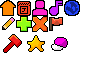
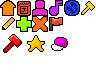
added tools link

Changed region(s): [[0.8438, 0.0, 1.0, 0.2]]

diff --git a/templates/base.html b/templates/base.html
@@ -84,10 +84,11 @@
 		
 		<nav>
 			<div class="links">
+				<div class="link yellow">  <img class="icon" src="/assets/trans.png"> <a href="https://tools.beepboard.xyz/">tools</a>        </div>
 				<div class="link orange">  <img class="icon" src="/assets/trans.png"> <a href="/">home</a>              </div>
 				<div class="link red">     <img class="icon" src="/assets/trans.png"> <a href="/Jams">jams</a>          </div>
-				<div class="link magenta"> <img class="icon" src="/assets/trans.png"> <a href="/Users">users</a>        </div>
-				<div class="link purple">  <img class="icon" src="/assets/trans.png"> <a href="/Songs">songs</a>        </div>
+				<div class="link magenta"> <img class="icon" src="/assets/trans.png"> <a href="/User/list">users</a>    </div>
+				<div class="link purple">  <img class="icon" src="/assets/trans.png"> <a href="/Song/list">songs</a>    </div>
 				<div class="link blue">    <img class="icon" src="/assets/trans.png"> <a href="/Wiki/MainPage">wiki</a> </div>
 			</div>
 		</nav>

diff --git a/public/style.css b/public/style.css
@@ -92,13 +92,15 @@ body {
 		display: inline-block;
 	}
 	
+	nav .link.yellow  {border-color: #fb2;}
 	nav .link.orange  {border-color: #f60;}
 	nav .link.red     {border-color: #f22;}
 	nav .link.magenta {border-color: #f2c;}
 	nav .link.purple  {border-color: #c2f;}
 	nav .link.blue    {border-color: #24f;}
 	
-	nav .link.orange  > .icon {background: url("/assets/icons.png") 0  0;}
+	nav .link.yellow  > .icon {background: url("/assets/icons.png") -80px 0;}
+	nav .link.orange  > .icon {background: url("/assets/icons.png")     0 0;}
 	nav .link.red     > .icon {background: url("/assets/icons.png") -16px 0;}
 	nav .link.magenta > .icon {background: url("/assets/icons.png") -32px 0;}
 	nav .link.purple  > .icon {background: url("/assets/icons.png") -48px 0;}

diff --git a/app.py b/app.py
@@ -10,6 +10,7 @@ from bb_users     import *
 from bb_songs     import *
 from bb_wiki      import *
 from bb_functions import *
+from bb_errors    import *
 
 @app.route('/')
 def bb_index():
@@ -28,96 +29,6 @@ def bb_welcome():
 		trending = bb_get_trending(db)
 	return render_template("welcome.html", trending=trending, myself=myself)
 
-@app.route('/Songs')
-def bb_list_songs():
-	# set default values for parameters
-	sort   = request.args.get('sort')
-	after  = request.args.get('after')
-	author = request.args.get('author')
-	tags   = request.args.get('tags')
-	query  = request.args.get('q')
-	limit  = request.args.get('limit')
-	if not sort:
-		sort = 'newest'
-	
-	if not limit:
-		limit = "10"
-	limit = int(limit)
-	if limit > 100 or limit < 1:
-		return "invalid limit", 400
-		
-	if not after:
-		after = '0'
-	if not after.isdigit():
-		after = '0'
-	
-	with bb_connect_db() as conn:
-		db = conn.cursor()
-		songs = bb_search_songs(db, sort, after, author, tags, query, limit)
-		
-		if not author:
-			author = ''
-		if not tags:
-			tags = ''
-		if not query:
-			query = ''
-		
-		myself = bb_filter_user(db, bb_get_userdata_by_token(db, request.cookies.get('token')))
-		trending = bb_get_trending(db)
-	
-	return render_template("songs.html",
-		myself=myself,
-		trending=trending,
-		songs=songs,
-		GET={'sort':sort,
-		     'after':after,
-		     'author':author,
-		     'tags':tags,
-		     'limit':limit,
-		     'q':query},
-	)
-
-
-
-@app.route('/Users')
-def bb_list_users():
-	# set default values for parameters
-	sort  = request.args.get('sort')
-	after = request.args.get('after')
-	query = request.args.get('q')
-	limit  = request.args.get('limit')
-	if not sort:
-		sort = 'popular'
-	
-	if not limit:
-		limit = "10"
-	limit = int(limit)
-	if limit > 100 or limit < 1:
-		return "invalid limit", 400
-	
-	if not after:
-		after = '0'
-	if not after.isdigit():
-		after = '0'
-	
-	with bb_connect_db() as conn:
-		db = conn.cursor()
-		users = bb_search_users(db, sort, after, query, limit)
-		
-		#filter users
-		myself = bb_filter_user(db, bb_get_userdata_by_token(db, request.cookies.get('token')))
-		trending = bb_get_trending(db)
-	
-	return render_template("users.html",
-		myself=myself,
-		trending=trending,
-		users=users,
-		after=after,
-		GET={'sort':sort,
-		     'after':after,
-		     'limit':limit,
-		     'q':query}
-	)
 
 @app.route('/Jams')
 @app.route('/Wiki')

diff --git a/bb_functions.py b/bb_functions.py
@@ -68,12 +68,7 @@ def bb_filter_comment(db, comment, detail = []):
 					[]
 				) if 'user' in detail else comment['userid'],
 		
-		'created': {
-			'time':      comment['timestamp'],
-			'date':      bb_date(comment['timestamp']),
-			'datetime':  bb_datetime(comment['timestamp']),
-		},
-		
+		'created': bb_format_time(comment['timestamp']),
 		'content': bb_filter_text(comment['content']),
 		
 		'replies': [bb_filter_comment(db, comment) for comment in
@@ -107,12 +102,7 @@ def bb_filter_comments(db, comments, parent = None, detail = []):
 						[]
 					) if 'user' in detail else comment['userid'],
 			
-			'created': {
-				'time':      comment['timestamp'],
-				'date':      bb_date(comment['timestamp']),
-				'datetime':  bb_datetime(comment['timestamp']),
-			},
-			
+			'created': bb_format_time(comment['timestamp']),
 			'content': bb_filter_text(comment['content']),
 			
 			'replies': bb_filter_comments(db, comments, comment['commentid'], detail)
@@ -153,6 +143,16 @@ def bb_filter_text(text):
 		'sanitized': sanitizer.sanitize(text)
 	}
 
+def bb_format_time(timestamp):
+	if not timestamp:
+		return None
+	
+	return {
+		'time':      timestamp,
+		'date':      bb_date(timestamp),
+		'datetime':  bb_datetime(timestamp)
+	}
+
 def bb_filter_user(db, user, detail = []):
 	# detail: list ("songs")
 	
@@ -163,9 +163,6 @@ def bb_filter_user(db, user, detail = []):
 		'username': user['username'],
 		
 		'created': {
-			'time':      user['timestamp'],
-			'date':      bb_date(user['timestamp']),
-			'datetime':  bb_datetime(user['timestamp']),
 		},
 		
 		'totalstats': {

diff --git a/bb_users.py b/bb_users.py
@@ -11,7 +11,6 @@ from bb_functions import *
 
 @app.route('/User/<int:id>')
 def bb_user_view(id):
-
 	with bb_connect_db() as conn:
 		db = conn.cursor()
 		myself = bb_filter_user(db, bb_get_userdata_by_token(db, request.cookies.get('token')))
@@ -43,3 +42,47 @@ def bb_profile_edit():
 		return redirect("/Account/login")
 	else:
 		return render_template("profile_edit.html", trending=trending, myself=myself)
+
+@app.route('/Users')
+def bb_users_list_redirect():
+	return redirect('/User/list', 301)
+
+@app.route('/User/list')
+def bb_user_list():
+	# set default values for parameters
+	sort  = request.args.get('sort')
+	after = request.args.get('after')
+	query = request.args.get('q')
+	limit  = request.args.get('limit')
+	if not sort:
+		sort = 'popular'
+	
+	if not limit:
+		limit = "10"
+	limit = int(limit)
+	if limit > 100 or limit < 1:
+		return "invalid limit", 400
+	
+	if not after:
+		after = '0'
+	if not after.isdigit():
+		after = '0'
+	
+	with bb_connect_db() as conn:
+		db = conn.cursor()
+		users = bb_search_users(db, sort, after, query, limit)
+		
+		#filter users
+		myself = bb_filter_user(db, bb_get_userdata_by_token(db, request.cookies.get('token')))
+		trending = bb_get_trending(db)
+	
+	return render_template("users.html",
+		myself=myself,
+		trending=trending,
+		users=users,
+		after=after,
+		GET={'sort':sort,
+		     'after':after,
+		     'limit':limit,
+		     'q':query}
+	)

diff --git a/bb_songs.py b/bb_songs.py
@@ -131,3 +131,56 @@ def bb_song_downvote(id):
 		           ("like", myself['id'], song["id"])
 		           )
 	return redirect(f"/Song/{song['id']}")
+
+@app.route('/Songs')
+def bb_songs_list_redirect():
+	return redirect('/Song/list', 301)
+
+@app.route('/Song/list')
+def bb_songs_list():
+	# set default values for parameters
+	sort   = request.args.get('sort')
+	after  = request.args.get('after')
+	author = request.args.get('author')
+	tags   = request.args.get('tags')
+	query  = request.args.get('q')
+	limit  = request.args.get('limit')
+	if not sort:
+		sort = 'newest'
+	
+	if not limit:
+		limit = "10"
+	limit = int(limit)
+	if limit > 100 or limit < 1:
+		return "invalid limit", 400
+		
+	if not after:
+		after = '0'
+	if not after.isdigit():
+		after = '0'
+	
+	with bb_connect_db() as conn:
+		db = conn.cursor()
+		songs = bb_search_songs(db, sort, after, author, tags, query, limit)
+		
+		if not author:
+			author = ''
+		if not tags:
+			tags = ''
+		if not query:
+			query = ''
+		
+		myself = bb_filter_user(db, bb_get_userdata_by_token(db, request.cookies.get('token')))
+		trending = bb_get_trending(db)
+	
+	return render_template("songs.html",
+		myself=myself,
+		trending=trending,
+		songs=songs,
+		GET={'sort':sort,
+		     'after':after,
+		     'author':author,
+		     'tags':tags,
+		     'limit':limit,
+		     'q':query},
+	)
